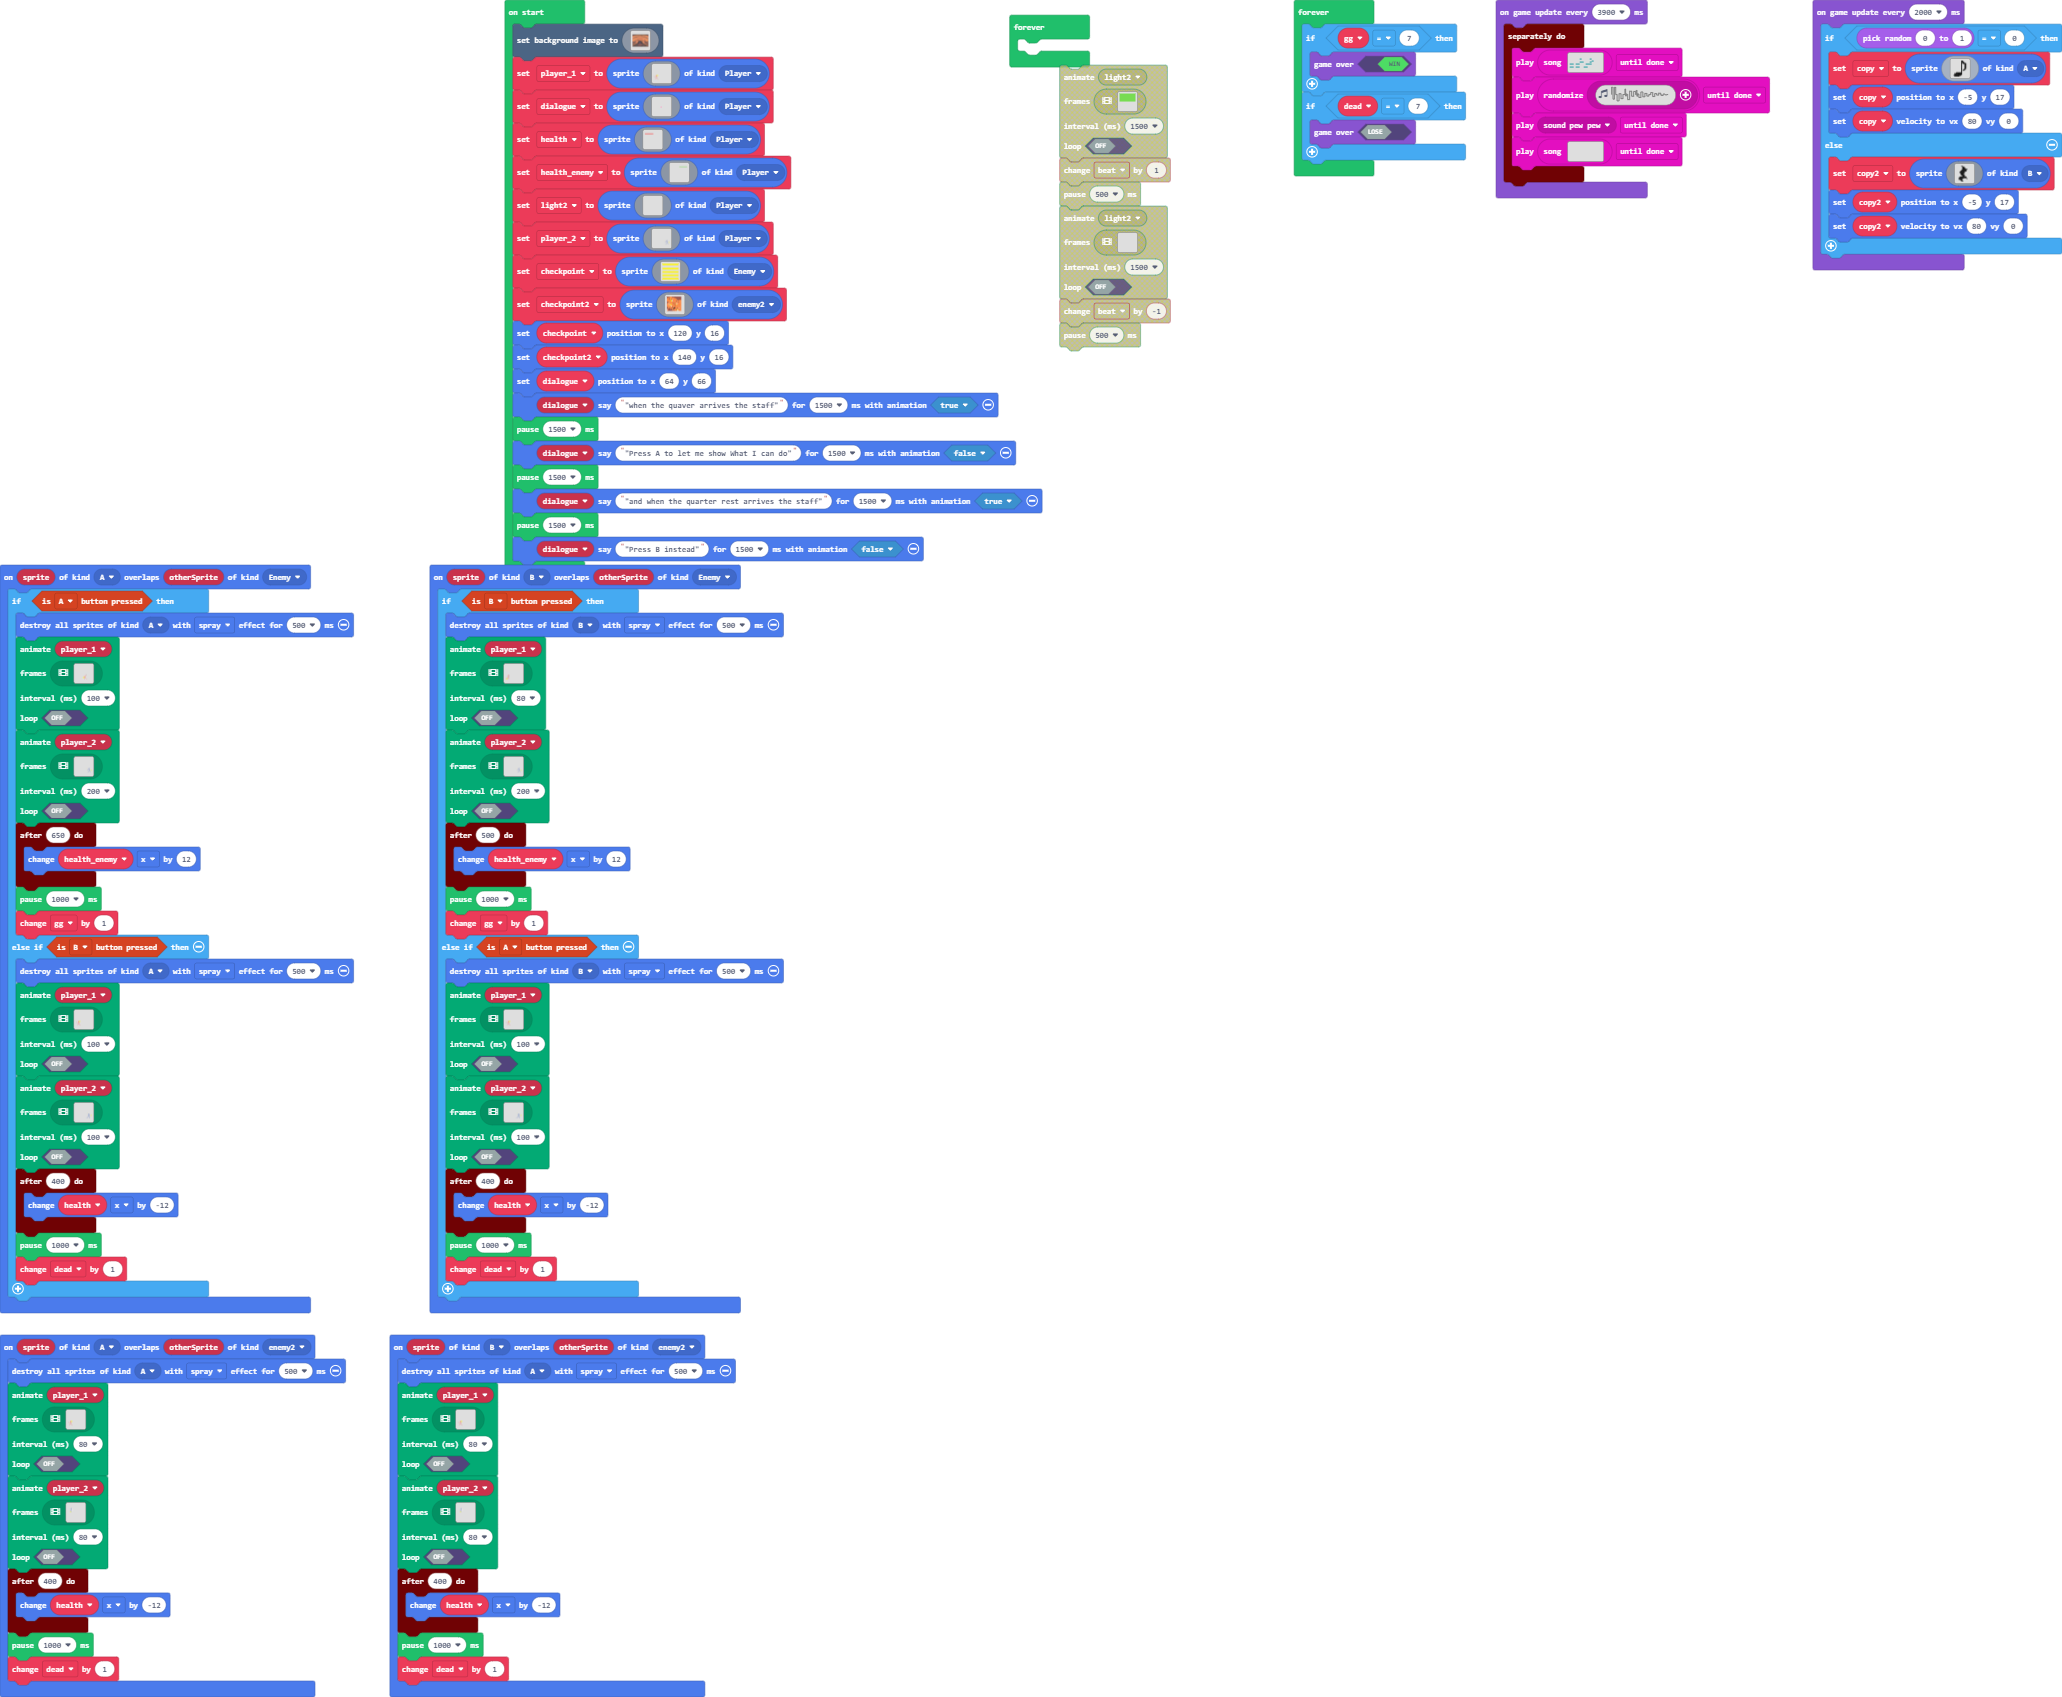
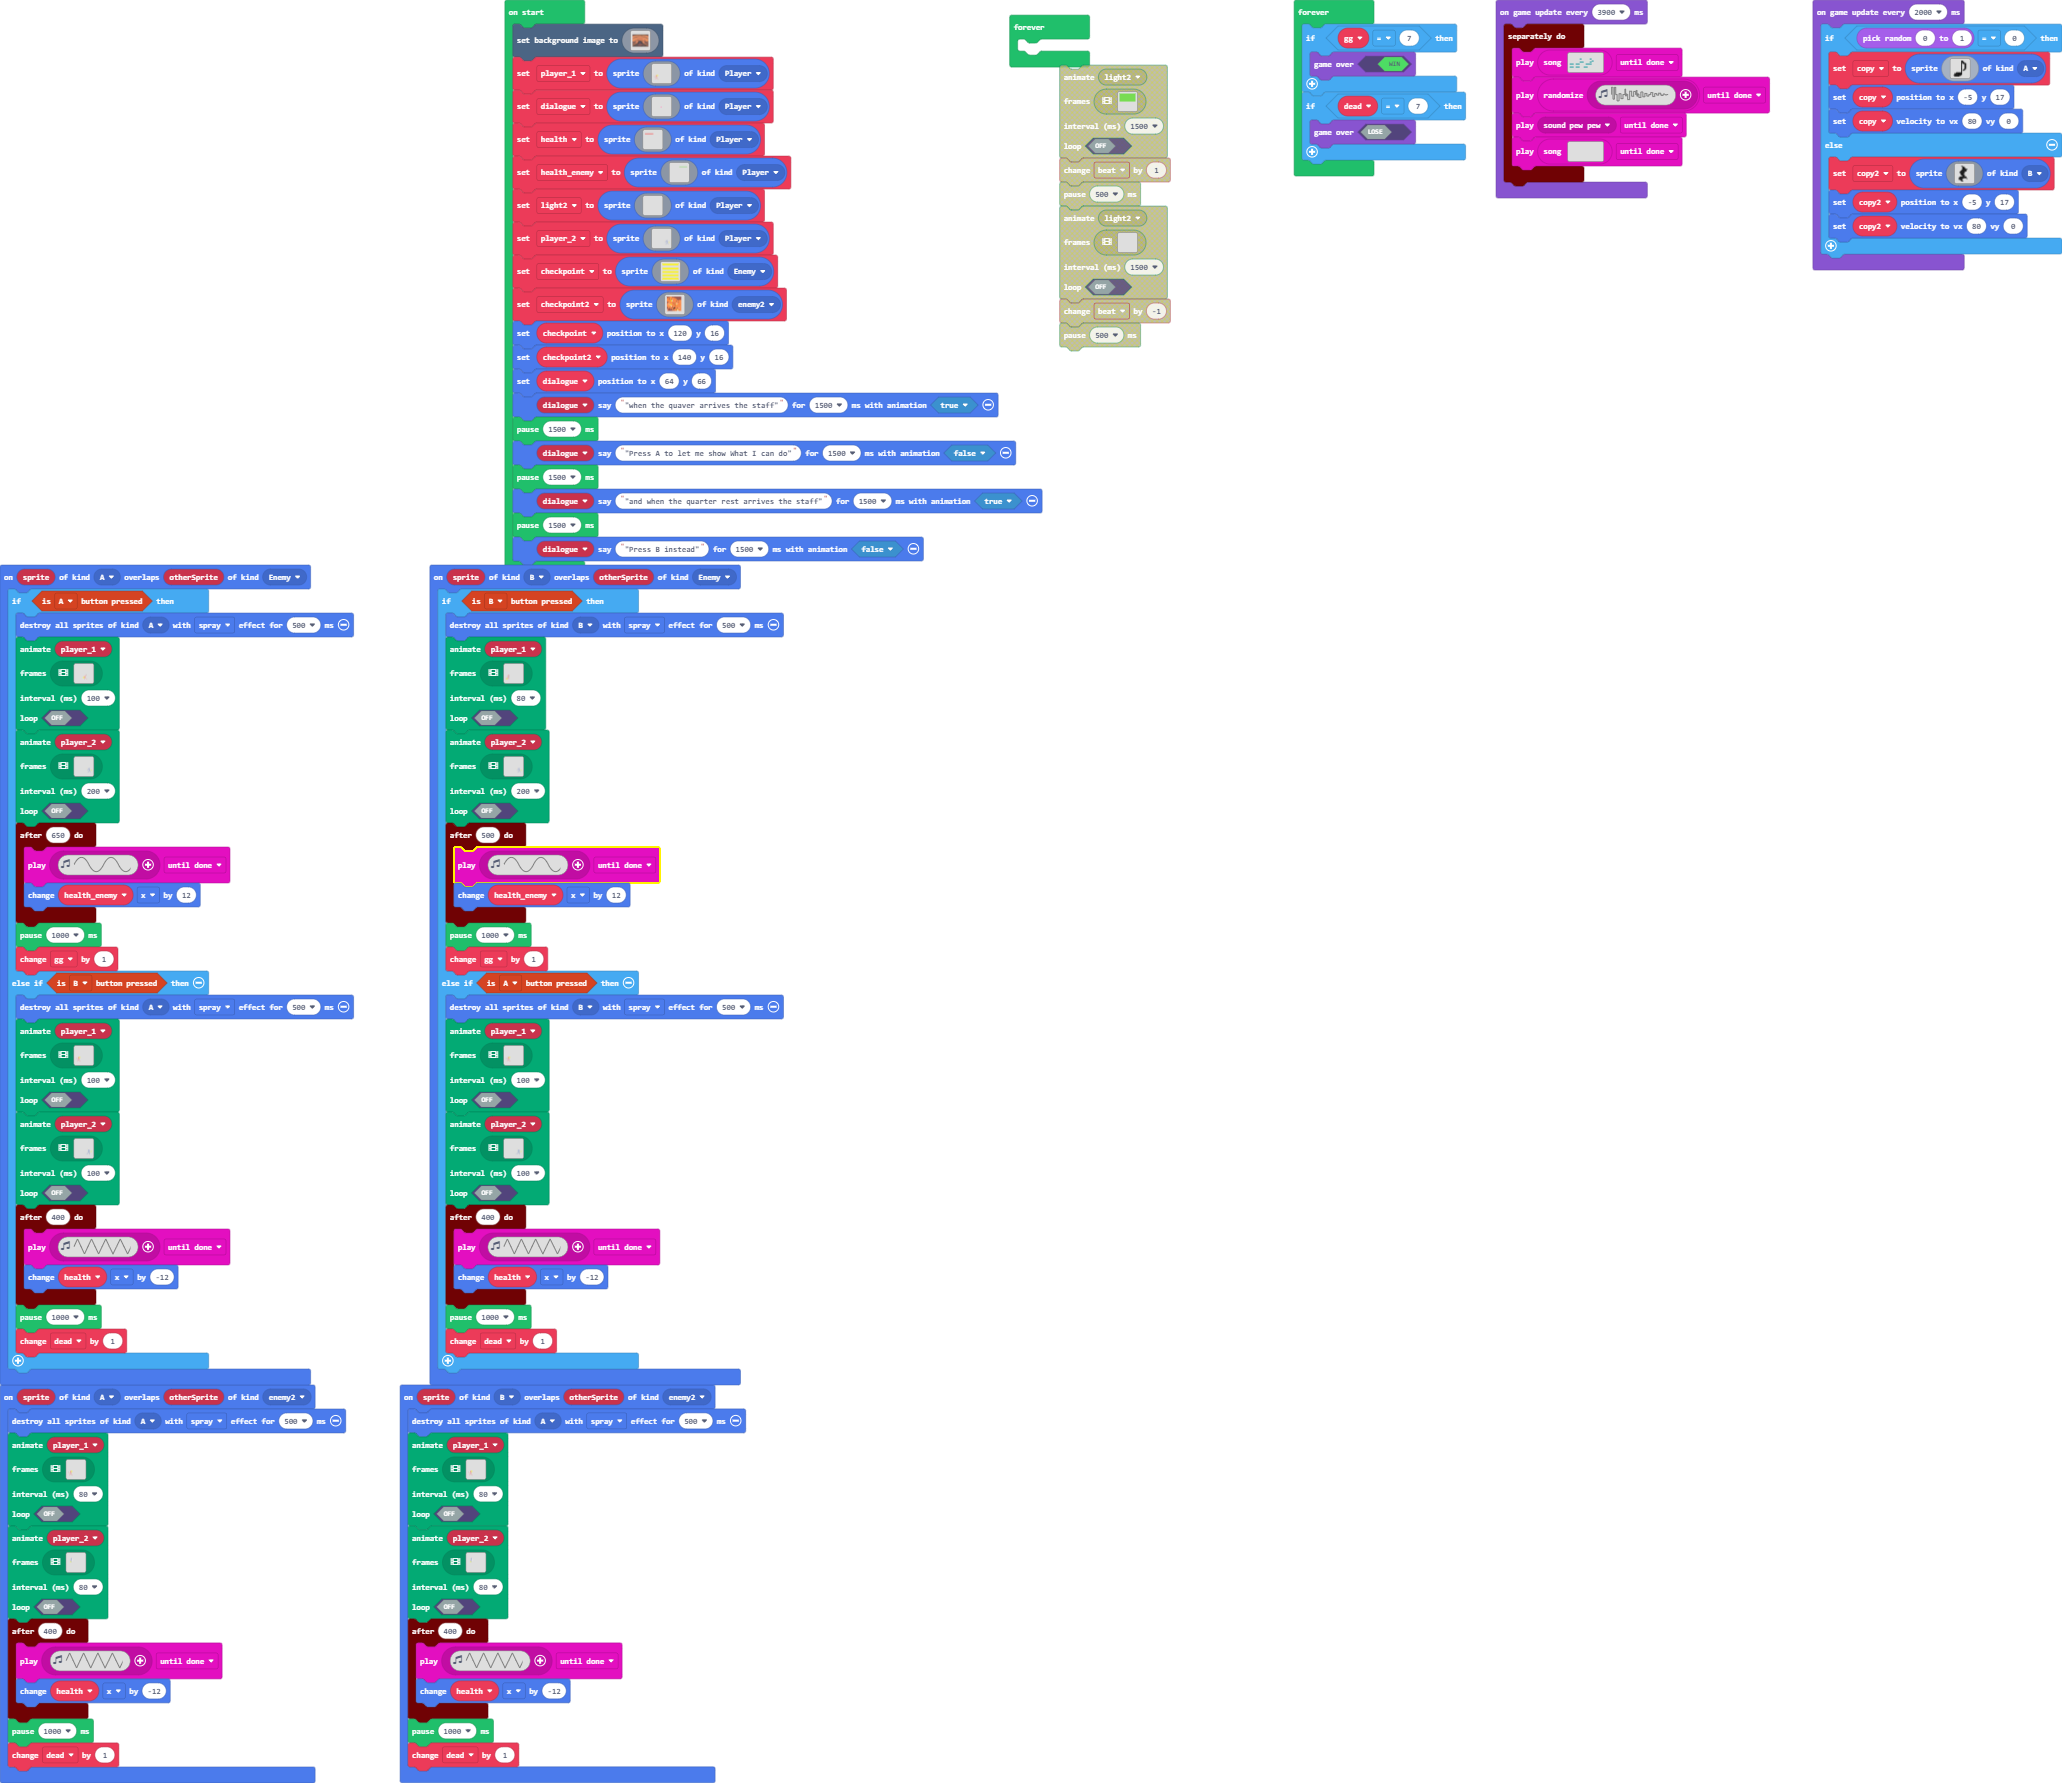
Update main.blocks, main.ts

Changed region(s): [[0.0, 0.0, 0.5276, 1.0], [0.6208, 0.0, 1.0, 0.1874], [0.4966, 0.0, 0.5897, 0.2186]]

diff --git a/main.ts b/main.ts
@@ -18,6 +18,7 @@ sprites.onOverlap(SpriteKind.B, SpriteKind.enemy2, function (sprite, otherSprite
     false
     )
     timer.after(400, function () {
+        music.play(music.createSoundEffect(WaveShape.Triangle, 3228, 3005, 255, 255, 200, SoundExpressionEffect.Vibrato, InterpolationCurve.Linear), music.PlaybackMode.UntilDone)
         health.x += -12
     })
     pause(1000)
@@ -39,6 +40,7 @@ sprites.onOverlap(SpriteKind.A, SpriteKind.Enemy, function (sprite, otherSprite)
         false
         )
         timer.after(650, function () {
+            music.play(music.createSoundEffect(WaveShape.Sine, 71, 116, 255, 255, 200, SoundExpressionEffect.Vibrato, InterpolationCurve.Curve), music.PlaybackMode.UntilDone)
             health_enemy.x += 12
         })
         pause(1000)
@@ -58,6 +60,7 @@ sprites.onOverlap(SpriteKind.A, SpriteKind.Enemy, function (sprite, otherSprite)
         false
         )
         timer.after(400, function () {
+            music.play(music.createSoundEffect(WaveShape.Triangle, 3228, 3005, 255, 255, 200, SoundExpressionEffect.Vibrato, InterpolationCurve.Linear), music.PlaybackMode.UntilDone)
             health.x += -12
         })
         pause(1000)
@@ -79,6 +82,7 @@ sprites.onOverlap(SpriteKind.A, SpriteKind.enemy2, function (sprite, otherSprite
     false
     )
     timer.after(400, function () {
+        music.play(music.createSoundEffect(WaveShape.Triangle, 3228, 3005, 255, 255, 200, SoundExpressionEffect.Vibrato, InterpolationCurve.Linear), music.PlaybackMode.UntilDone)
         health.x += -12
     })
     pause(1000)
@@ -100,6 +104,7 @@ sprites.onOverlap(SpriteKind.B, SpriteKind.Enemy, function (sprite, otherSprite)
         false
         )
         timer.after(500, function () {
+            music.play(music.createSoundEffect(WaveShape.Sine, 71, 116, 255, 255, 200, SoundExpressionEffect.Vibrato, InterpolationCurve.Curve), music.PlaybackMode.UntilDone)
             health_enemy.x += 12
         })
         pause(1000)
@@ -119,6 +124,7 @@ sprites.onOverlap(SpriteKind.B, SpriteKind.Enemy, function (sprite, otherSprite)
         false
         )
         timer.after(400, function () {
+            music.play(music.createSoundEffect(WaveShape.Triangle, 3228, 3005, 255, 255, 200, SoundExpressionEffect.Vibrato, InterpolationCurve.Linear), music.PlaybackMode.UntilDone)
             health.x += -12
         })
         pause(1000)
